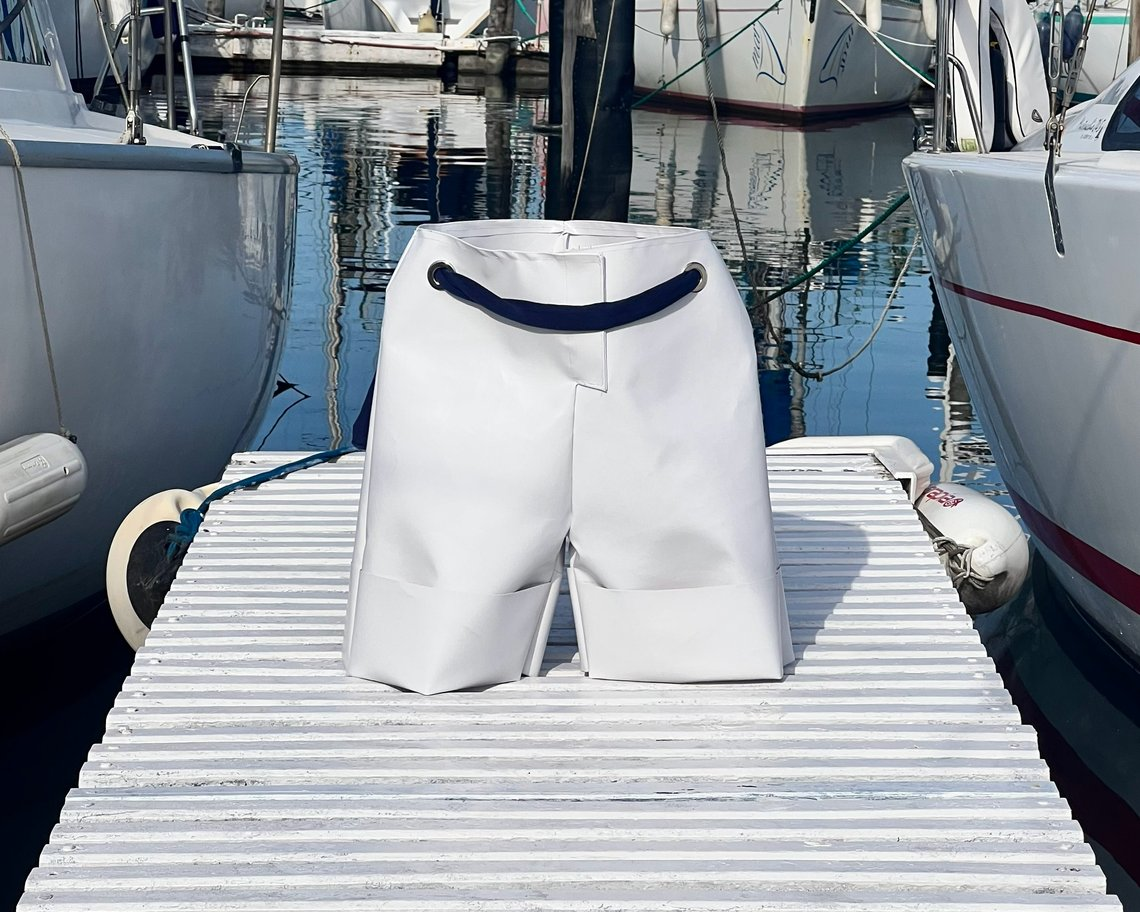
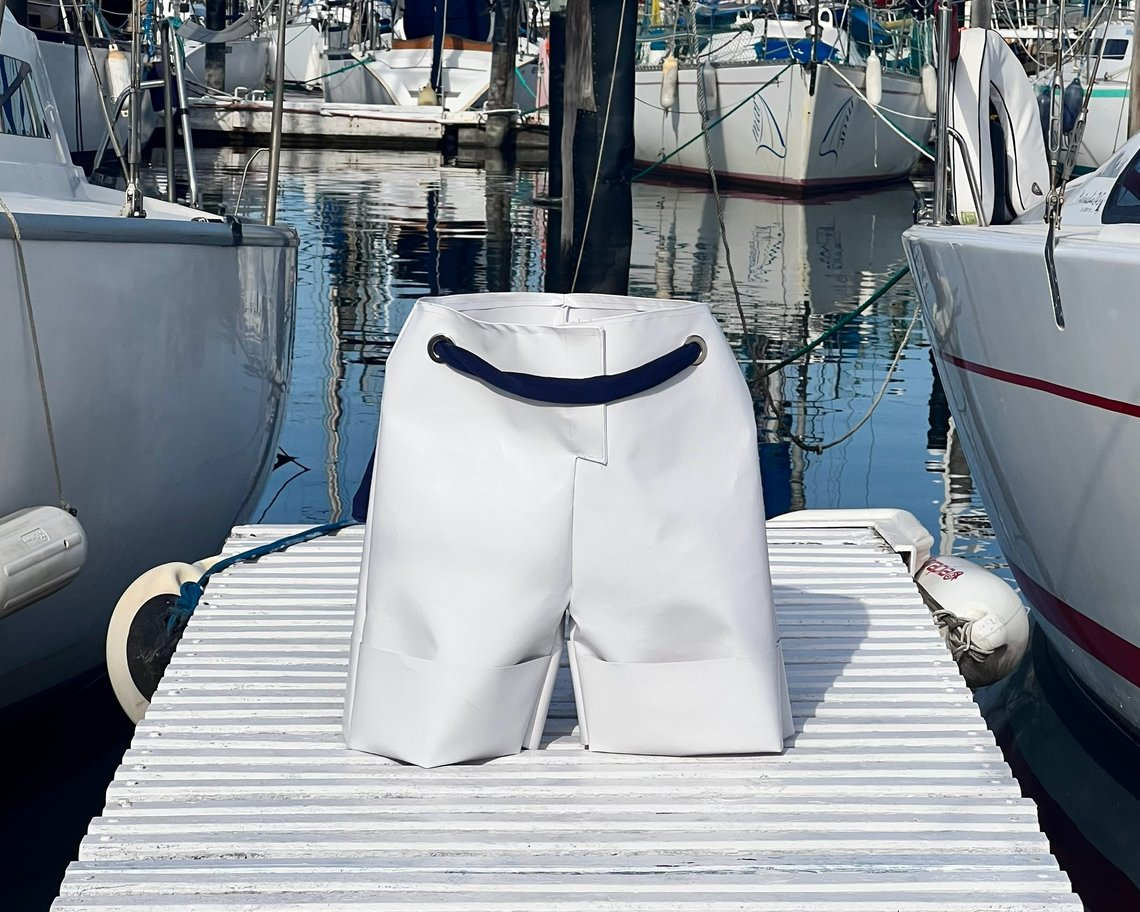
Dualidad Fusionada: menú blanco sobre la portada, fondo algo más oscuro, video con su texto final, fotos BN que dejan leer
- Menú en blanco sobre la foto de portada; pasa a tinta al cruzar la prenda (y vuelve a blanco al subir).
- Fotos del moodboard en blanco y negro: pueden rozar los bordes de los párrafos, no quedarse en el centro.
- Video: se ve el texto final sobre negro y recién ahí se funde con el fondo.
- Segunda foto final con 4% menos de saturación; al estirar al final aparece su pie reflejado y desenfocado.
- Miniatura del home con la prenda un poco más abajo del centro.
- Fondo #ededec y miniaturas de figurín achicadas con buena calidad.

Claude-Session: https://claude.ai/code/session_01VVY2Xm9Z2yGy11hWit3G9P

diff --git a/index.html b/index.html
@@ -386,9 +386,15 @@
   /* =============== DUALIDAD FUSIONADA (proyecto 02) =============== */
   /* Tema claro (no entra en DARK_WORKS). El fondo no es del panel: es una capa
      propia (.df-bg) que viaja con el recorrido y pasa, muy de a poco, de blanco
-     a #f6f6f6 durante el concepto. Va POR DEBAJO de las imágenes del moodboard
+     a #ededec durante el concepto. Va POR DEBAJO de las imágenes del moodboard
      que pasan "por detrás" del texto, por eso no puede estar dentro del recorrido. */
-  .df{ --df-m: clamp(20px,4vw,56px); --df-bg:#f6f6f6; position:relative; }
+  .df{ --df-m: clamp(20px,4vw,56px); --df-bg:#ededec; position:relative; }
+  /* menú en blanco mientras está sobre la foto de portada; al pasar por la
+     prenda cambia a negro, despacio (y al revés si se vuelve hacia arriba) */
+  html.df-nav-light nav.links button{ color:#fff; }
+  html.df-nav-light .lang-toggle, html.df-nav-light .lang-toggle span.active{ color:#fff; }
+  .lang-toggle, .lang-toggle span{ transition:color .9s ease; }
+  html.work-open nav.links button{ transition:color .9s ease; }
   .df-bg{ position:absolute; left:0; top:0; width:100vw; z-index:0; pointer-events:none; will-change:transform; }
   .df-track{ position:relative; z-index:2; }
   .df-part{ width:100vw; position:relative; }
@@ -465,6 +471,12 @@
   .df-final{ width:100vw; opacity:0; }
   .df-final img{ width:100%; height:auto; display:block; }
   .df-final-1 img{ aspect-ratio:2400/1388; }
+  /* al "estirar" al final para volver al home, debajo de la última foto aparece
+     su propio pie reflejado y desenfocado (como en la portada; acá el corte
+     puede notarse un poco) */
+  .df-final-2{ position:relative; }
+  .df-underscroll{ position:absolute; left:0; top:100%; width:100%; height:300px; overflow:hidden; pointer-events:none; }
+  .df-underscroll img{ position:absolute; left:0; top:0; width:100%; height:auto; transform:scaleY(-1); filter:blur(9px); }
   .df-final-2 img{ aspect-ratio:1800/2400; }
 
   @media (max-width:900px){
@@ -880,29 +892,29 @@
           <img src="assets/dualidad-mood-11.jpg" data-w="987" data-h="1074" alt="">
           <img src="assets/dualidad-mood-12.jpg" data-w="965" data-h="1383" alt="">
           <img src="assets/dualidad-mood-13.jpg" data-w="979" data-h="1373" alt="">
-          <img src="assets/dualidad-mood-14.jpg" data-w="697" data-h="489" alt="">
-          <img src="assets/dualidad-mood-15.jpg" data-w="799" data-h="794" alt="">
-          <img src="assets/dualidad-mood-16.jpg" data-w="358" data-h="255" alt="">
-          <img src="assets/dualidad-mood-17.jpg" data-w="498" data-h="817" alt="">
+          <img src="assets/dualidad-mood-14.jpg" data-bw="1" data-w="697" data-h="489" alt="">
+          <img src="assets/dualidad-mood-15.jpg" data-bw="1" data-w="799" data-h="794" alt="">
+          <img src="assets/dualidad-mood-16.jpg" data-bw="1" data-w="358" data-h="255" alt="">
+          <img src="assets/dualidad-mood-17.jpg" data-bw="1" data-w="498" data-h="817" alt="">
           <img src="assets/dualidad-mood-18.jpg" data-w="1080" data-h="1315" alt="">
-          <img src="assets/dualidad-mood-19.jpg" data-w="621" data-h="466" alt="">
+          <img src="assets/dualidad-mood-19.jpg" data-bw="1" data-w="621" data-h="466" alt="">
           <img src="assets/dualidad-mood-20.jpg" data-w="540" data-h="374" alt="">
           <img src="assets/dualidad-mood-21.jpg" data-w="906" data-h="694" alt="">
           <img src="assets/dualidad-mood-22.jpg" data-w="564" data-h="364" alt="">
           <img src="assets/dualidad-mood-23.jpg" data-w="736" data-h="1308" alt="">
           <img src="assets/dualidad-mood-24.jpg" data-w="494" data-h="743" alt="">
-          <img src="assets/dualidad-mood-25.jpg" data-w="564" data-h="588" alt="">
-          <img src="assets/dualidad-mood-26.jpg" data-w="453" data-h="610" alt="">
-          <img src="assets/dualidad-mood-27.jpg" data-w="564" data-h="591" alt="">
+          <img src="assets/dualidad-mood-25.jpg" data-bw="1" data-w="564" data-h="588" alt="">
+          <img src="assets/dualidad-mood-26.jpg" data-bw="1" data-w="453" data-h="610" alt="">
+          <img src="assets/dualidad-mood-27.jpg" data-bw="1" data-w="564" data-h="591" alt="">
           <img src="assets/dualidad-mood-28.jpg" data-w="736" data-h="1104" alt="">
           <img src="assets/dualidad-mood-29.jpg" data-w="1170" data-h="2032" alt="">
-          <img src="assets/dualidad-mood-30.jpg" data-w="384" data-h="395" alt="">
-          <img src="assets/dualidad-mood-31.jpg" data-w="977" data-h="680" alt="">
-          <img src="assets/dualidad-mood-32.jpg" data-w="414" data-h="682" alt="">
+          <img src="assets/dualidad-mood-30.jpg" data-bw="1" data-w="384" data-h="395" alt="">
+          <img src="assets/dualidad-mood-31.jpg" data-bw="1" data-w="977" data-h="680" alt="">
+          <img src="assets/dualidad-mood-32.jpg" data-bw="1" data-w="414" data-h="682" alt="">
           <img src="assets/dualidad-mood-33.jpg" data-w="564" data-h="564" alt="">
           <img src="assets/dualidad-mood-34.jpg" data-w="1545" data-h="963" alt="">
-          <img src="assets/dualidad-mood-35.jpg" data-w="576" data-h="587" alt="">
-          <img src="assets/dualidad-mood-36.jpg" data-w="564" data-h="585" alt="">
+          <img src="assets/dualidad-mood-35.jpg" data-bw="1" data-w="576" data-h="587" alt="">
+          <img src="assets/dualidad-mood-36.jpg" data-bw="1" data-w="564" data-h="585" alt="">
           <img src="assets/dualidad-mood-37.jpg" data-w="600" data-h="573" alt="">
         </div>
 
@@ -958,6 +970,7 @@
           </section>
           <section class="df-final df-final-2">
             <img src="assets/dualidad-final-2.jpg" alt="Dualidad Fusionada">
+            <div class="df-underscroll"><img src="assets/dualidad-final-2.jpg" alt=""></div>
           </section>
 
         </div>
@@ -2770,7 +2783,7 @@
 
   // =============== 02 · DUALIDAD FUSIONADA ===============
   // Fondo: una capa propia (#dfBg) que viaja junto con el recorrido. Pasa de
-  // blanco a #f6f6f6 de forma lineal y muy larga: empieza con el primer párrafo
+  // blanco a #ededec de forma lineal y muy larga: empieza con el primer párrafo
   // y la mitad exacta del degradé cae en la mitad del segundo.
   // Moodboard: las imágenes suben un poco más lento que el texto (DF_MOOD_K),
   // para que no parezcan pegadas al fondo, sin inercia extra (sin "rebote").
@@ -2799,13 +2812,15 @@
   const DF_BLINK_FADE  = 2600;  // ms que tarda una imagen en desvanecerse o reaparecer
   const DF_BLINKERS    = 0.3;   // proporción de imágenes que parpadean
   const DF_FRONT_OVER_TEXT = 0.15;   // de las que pasan por un texto, cuántas van por encima
-  const DF_VIDEO_BLACK = 19.7;  // segundo en el que el video empieza su propio fundido a negro
+  const DF_VIDEO_FADE_A = 21.3; // se deja ver el texto final ("Náutica · Mar del Plata") y recién ahí...
+  const DF_VIDEO_FADE_B = 22.1; // ...la imagen se funde con el fondo, hasta este segundo
   const DF_VIDEO_PUSH  = 0.3;   // segundos antes del final en que llega el envión
   const DF_GLIDE_MS    = 1500;  // centrado del video y "envión" del final: misma duración y curva
 
   let dfSeed = 1;
   let dfMood = [];              // { el, w, h, x, sIn, sOut, nextBlink, hidden }
   let dfHeroBottom = 0;
+  let dfObjTop = 0;             // borde superior de la prenda de la portada, en el recorrido
   let dfVideoTop = 0, dfVideoBottom = 0;
   let dfVideoOn = false;
   let dfVideoSnapped = false;
@@ -2843,14 +2858,16 @@
     const p3 = box(document.getElementById('dfP3'));
     const pt = box(document.getElementById('dfProcesoText'));
     const vd = box(document.getElementById('dfVideo'));
-    dfHeroBottom = box(document.getElementById('dfInicial')).b;
+    const ini = box(document.getElementById('dfInicial'));
+    dfHeroBottom = ini.b;
+    dfObjTop = ini.t + ini.h * 0.28;   // la cintura del short está al 28% del alto visible de la foto
     dfVideoTop = vd.t; dfVideoBottom = vd.b;
 
     // ---- fondo ----
     const mid = p2.t + p2.h / 2;
     const gradA = p1.t, gradB = mid + (mid - p1.t);
     dfBgEl.style.height = (dfTrackEl.scrollHeight + vh) + 'px';
-    dfBgEl.style.background = `linear-gradient(to bottom, #fff 0px, #fff ${gradA}px, #f6f6f6 ${gradB}px, #f6f6f6 100%)`;
+    dfBgEl.style.background = `linear-gradient(to bottom, #fff 0px, #fff ${gradA}px, #ededec ${gradB}px, #ededec 100%)`;
 
     // ---- figurín + miniaturas (zona prohibida para las imágenes) ----
     dfFigRects = dfLayoutMinis(pt.h, vw).map(r => ({ l: r.l, t: r.t + pt.t, w: r.w, h: r.h }));
@@ -2872,6 +2889,10 @@
     const sEnd   = Math.max(pt.t - (vh + maxH) / K - 40, sStart + vh * 0.5);
     const rightLo = Math.max(p1.r + vw * 0.03, vw * 0.55);
     const texts = [p1, p2, p3, pt];
+    // "núcleo" de cada texto: el párrafo sin sus bordes laterales. Las fotos en
+    // blanco y negro pueden rozar los bordes, pero no quedarse sobre el centro
+    // del párrafo (ahí no dejarían leer por más que se scrollee)
+    const cores = texts.map(b => ({ l: b.l + b.w * 0.2, t: b.t, w: b.w * 0.6, h: b.h }));
     const placed = [];
     dfMood = [];
     let golden = rnd();
@@ -2898,6 +2919,7 @@
       };
 
       const lo = i < DF_FIRST_RIGHT ? rightLo : vw * 0.03;
+      const bw = el.dataset.bw === '1';
       const hi = Math.max(vw * 0.97 - w, lo);
       golden = (golden + 0.6180339887) % 1;
       const target = lo + golden * (hi - lo);
@@ -2905,7 +2927,7 @@
       // cerca del lugar que le toca, se prueban variantes y se queda con la que
       // menos se pisa con las otras imágenes; los figurines no se tocan nunca
       let bestX = null, bestScore = Infinity;
-      for(let c = 0; c < 30; c++){
+      for(let c = 0; c < 40; c++){
         const spread = c < 14 ? 0.1 : 1;   // si cerca no hay lugar, se busca en todo el ancho
         const x = Math.min(Math.max(target + (rnd() - 0.5) * vw * spread, lo), hi);
         if(hitsFig(x)) continue;
@@ -2913,6 +2935,10 @@
         for(let k = 0; k <= 12; k++){
           const s = sIn + (sOut - sIn) * k / 12;
           const y = vh - (s - sIn) * K;
+          if(bw) cores.forEach(c => {
+            const ct = c.t - s;
+            if(ct < vh * 0.9 && ct + c.h > vh * 0.08) sc += 25 * dfOverlap(x, y, w, h, c.l, ct, c.w, c.h);
+          });
           placed.forEach(q => {
             if(s < q.sIn || s > q.sOut) return;
             const qy = vh - (s - q.sIn) * K;
@@ -2955,7 +2981,7 @@
     fig.style.width = figW + 'px';
     const rects = [{ l: vw / 2 - figW / 2, t: 0, w: figW, h: H }];
     if(!dfMinis) return rects;
-    const src = fig.querySelector('img').getAttribute('src');
+    const src = 'assets/dualidad-figurin-01-mini.png';   // versión ya achicada con buena calidad
     if(dfMinis.children.length !== DF_MINIS){
       dfMinis.innerHTML = '';
       for(let i = 0; i < DF_MINIS; i++){
@@ -3026,6 +3052,8 @@
     }
 
     dfBgEl.style.transform = 'translateY(' + (-workCurrent) + 'px)';
+    // menú blanco sobre la foto, negro desde que pasa por la prenda
+    root.classList.toggle('df-nav-light', workCurrent + 38 < dfObjTop);
 
     // las imágenes solo se ven por debajo del borde de la portada: así "nacen"
     // desde ahí en vez de pasar por encima de la foto
@@ -3055,9 +3083,9 @@
     });
 
     // video: arranca al asomarse (el volumen sube con lo que se ve) y, una vez
-    // centrado, la música sigue a pleno hasta el final aunque la imagen ya se
-    // haya fundido con el fondo. La imagen se funde antes de que el propio
-    // video pase a negro; a 0,3s del final llega el envión hacia las fotos.
+    // centrado, la música sigue a pleno hasta el final. Se deja ver el texto
+    // final sobre negro y recién ahí la imagen se funde con el fondo; a 0,3s
+    // del final llega el envión hacia las fotos.
     const vt = dfVideoTop - workCurrent, vb = dfVideoBottom - workCurrent;
     if(dfVideo){
       const shown = Math.min(vb, vh) - Math.max(vt, 0);
@@ -3078,7 +3106,7 @@
       }
       if(dfVideoOn){
         dfVideo.volume = dfVideoSnapped ? 1 : Math.min(frac * 1.25, 1);
-        dfVideo.style.opacity = String(Math.min(Math.max((DF_VIDEO_BLACK - dfVideo.currentTime) / 1.1, 0), 1));
+        dfVideo.style.opacity = String(Math.min(Math.max((DF_VIDEO_FADE_B - dfVideo.currentTime) / (DF_VIDEO_FADE_B - DF_VIDEO_FADE_A), 0), 1));
         if(!dfVideoPushed && dfVideo.duration && left <= DF_VIDEO_PUSH){
           dfVideoPushed = true;
           dfGlideTo(workTarget + vh * 0.6);
@@ -3148,7 +3176,7 @@
   }
 
   function teardownWorkProject(){
-    root.classList.remove('work-open','work-dark','work-nav-hidden',
+    root.classList.remove('work-open','work-dark','work-nav-hidden','df-nav-light',
                           'smb-click-on','smb-lb-open','smb-vig-top','smb-vig-bottom');
     workPages.forEach(p => p.classList.remove('is-active'));
     finalParts.forEach(f => { f.style.opacity = ''; });
@@ -3173,7 +3201,10 @@
   function measureWork(){
     if(!workTrack) return;
     // 140px de más: hay que "pasarse" del final para que vuelva sola al home
-    workMax = Math.max(workTrack.scrollHeight - window.innerHeight, 0) + 140;
+    // Dualidad: se usa el alto real del recorrido, sin contar la franja de
+    // "estirado" que cuelga debajo de la última foto
+    const trackH = workTrack === dfTrackEl ? workTrack.offsetHeight : workTrack.scrollHeight;
+    workMax = Math.max(trackH - window.innerHeight, 0) + 140;
   }
   window.addEventListener('resize', () => { if(root.classList.contains('work-open')){ measureWork(); sizeAlbSlot(ALB_RATIO); drawExprArrow(); dfLayout(); } });
 

diff --git a/CLAUDE.md b/CLAUDE.md
@@ -115,7 +115,7 @@ Todo en **Instrument Sans**. Los tamaños con `clamp()` escalan con el ancho de 
 **Excepciones ya pedidas por Carolina**
 
 - **Dualidad Fusionada:** título y subtítulo van **en blanco** sobre la foto de portada (subtítulo en blanco al 78%, categoría en blanco pleno). Los servicios también van en blanco, pero con transparencia (blanco al 72%), para que queden un escalón por debajo del título y el subtítulo.
-- **Fondos:** ver la regla de fondos en "Estilo general". Dentro de esa regla, Dualidad Fusionada tiene un matiz propio: el fondo pasa muy de a poco de blanco a `#f6f6f6` durante el concepto y queda así hasta el final.
+- **Fondos:** ver la regla de fondos en "Estilo general". Dentro de esa regla, Dualidad Fusionada tiene un matiz propio: el fondo pasa muy de a poco de blanco a `#ededec` durante el concepto y queda así hasta el final (un gris apenas más oscuro que el primer `#f6f6f6`, para que los figurines blancos no se pierdan). El menú va en blanco mientras está sobre la foto de portada y pasa a tinta al cruzar la prenda.
 
 ### Estilo general
 
